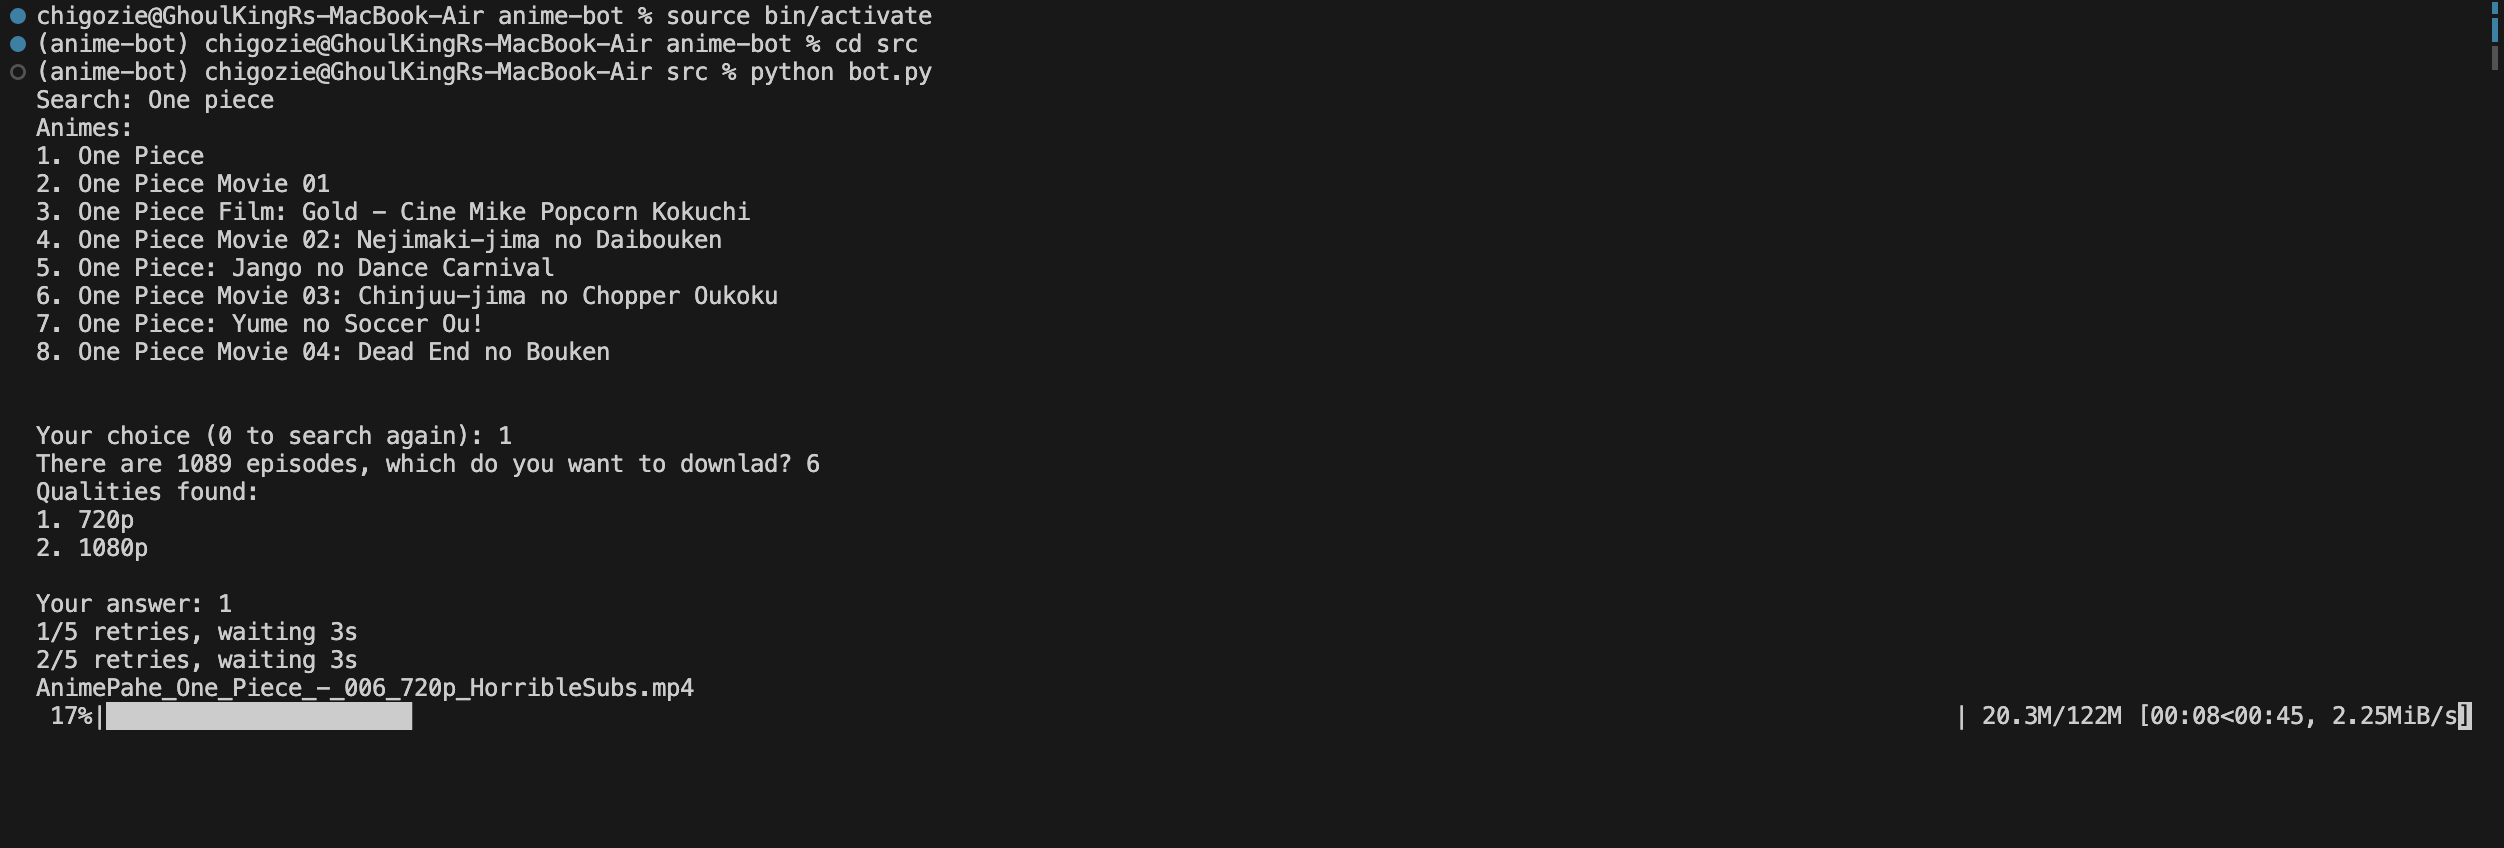
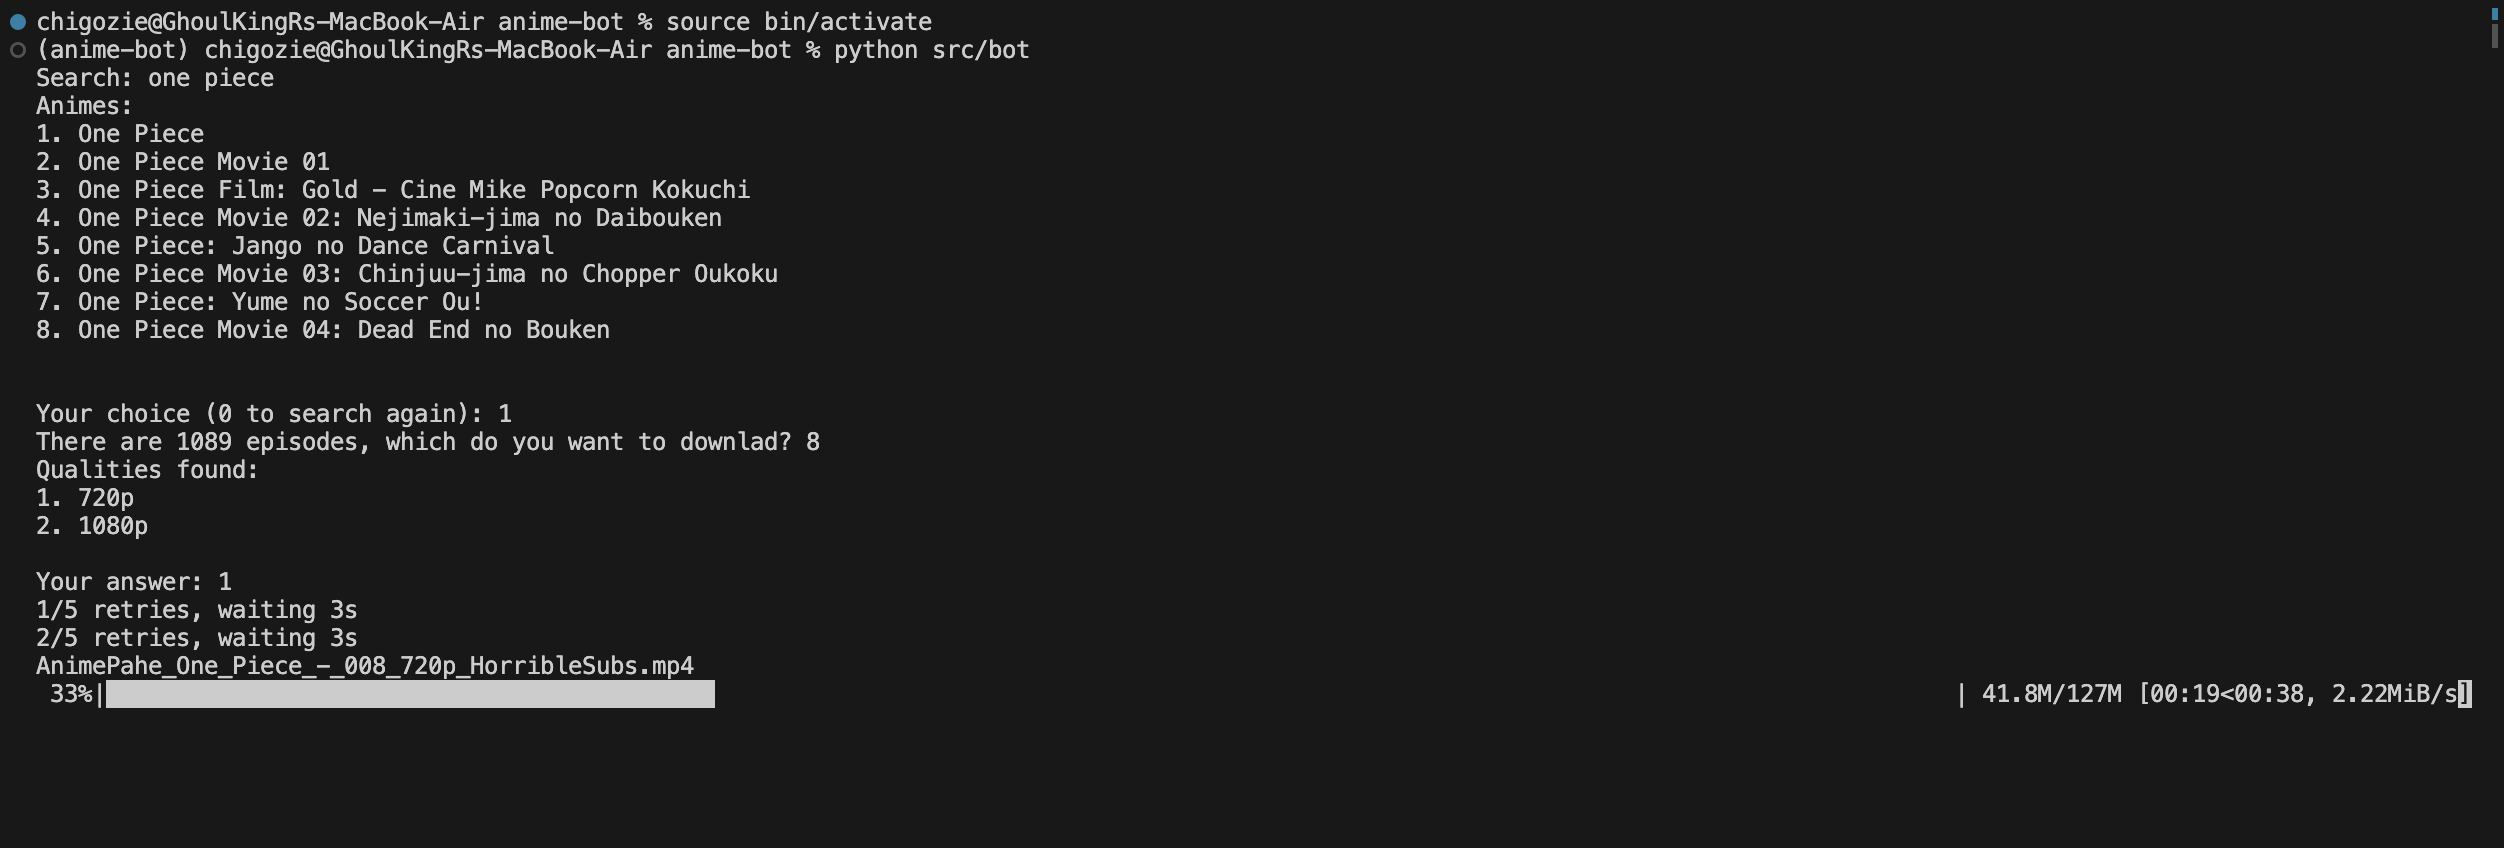
updated readme and screenshot

diff --git a/README.md b/README.md
@@ -20,14 +20,9 @@ git clone https://github.com/GhoulKingR/anime-bot.git
 source bin/activate
 ```
 
-3. cd into the `src` folder
+3. Run the bot
 ```bash
-cd src
-```
-
-4. Run the bot
-```bash
-python bot.py
+python src/bot
 ```
 
 ![Screenshot](/assets/screenshot.png)
@@ -35,3 +30,7 @@ python bot.py
 ## Bugs/Request
 
 If you encounter any problems or you want to request a new feature feel free to open an issue. If you want to make an improvement, fix, or any contribution, feel free to make a pull request.
+
+## Found this project useful?
+
+If you found this project useful or you like what you see, then please consider giving it a ⭐ on Github and sharing it with your friends on social media.
